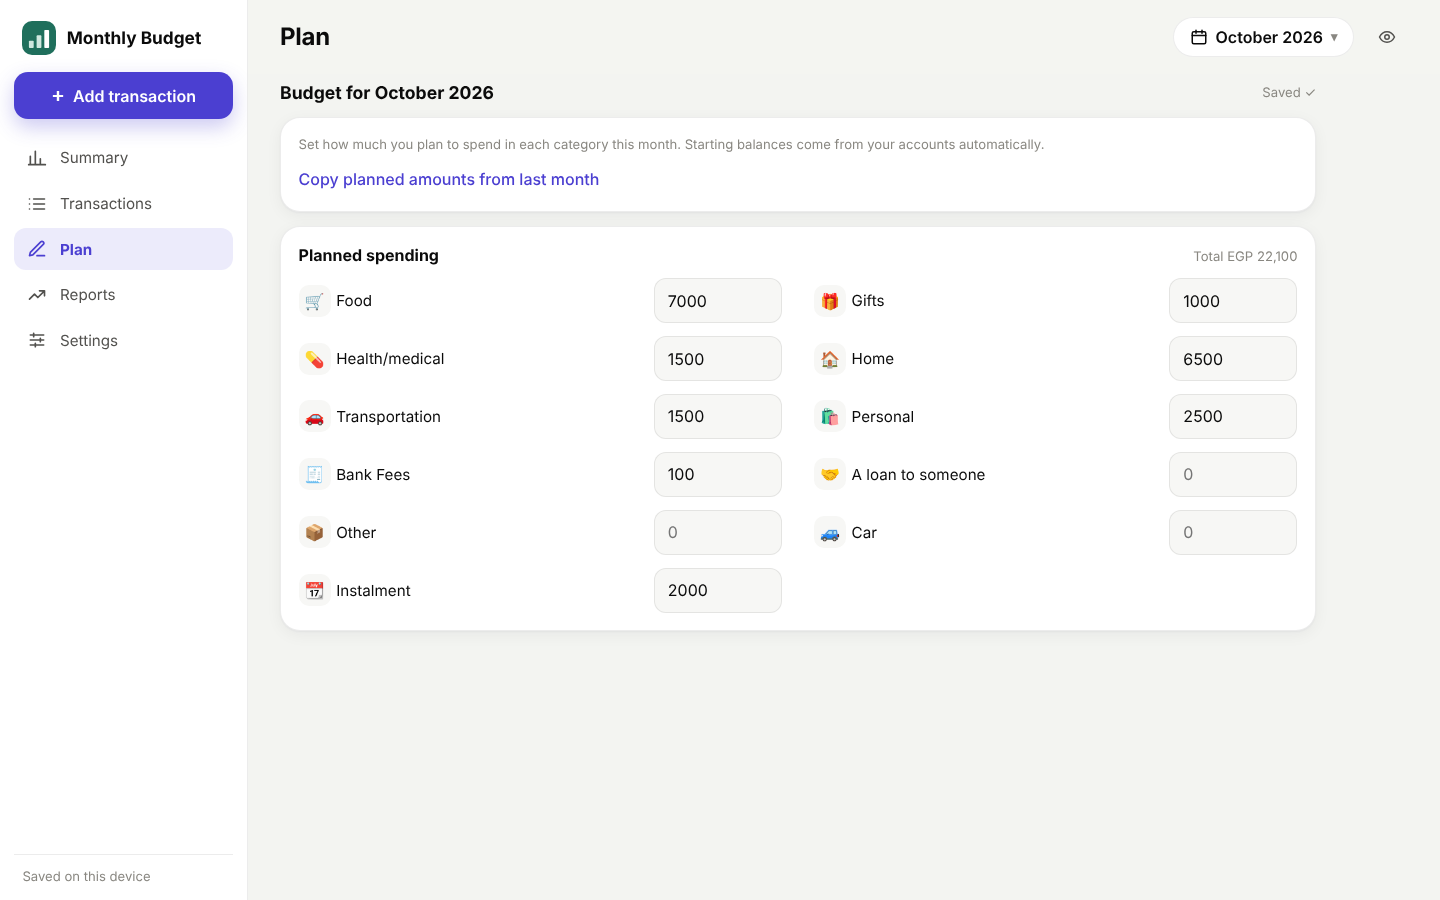
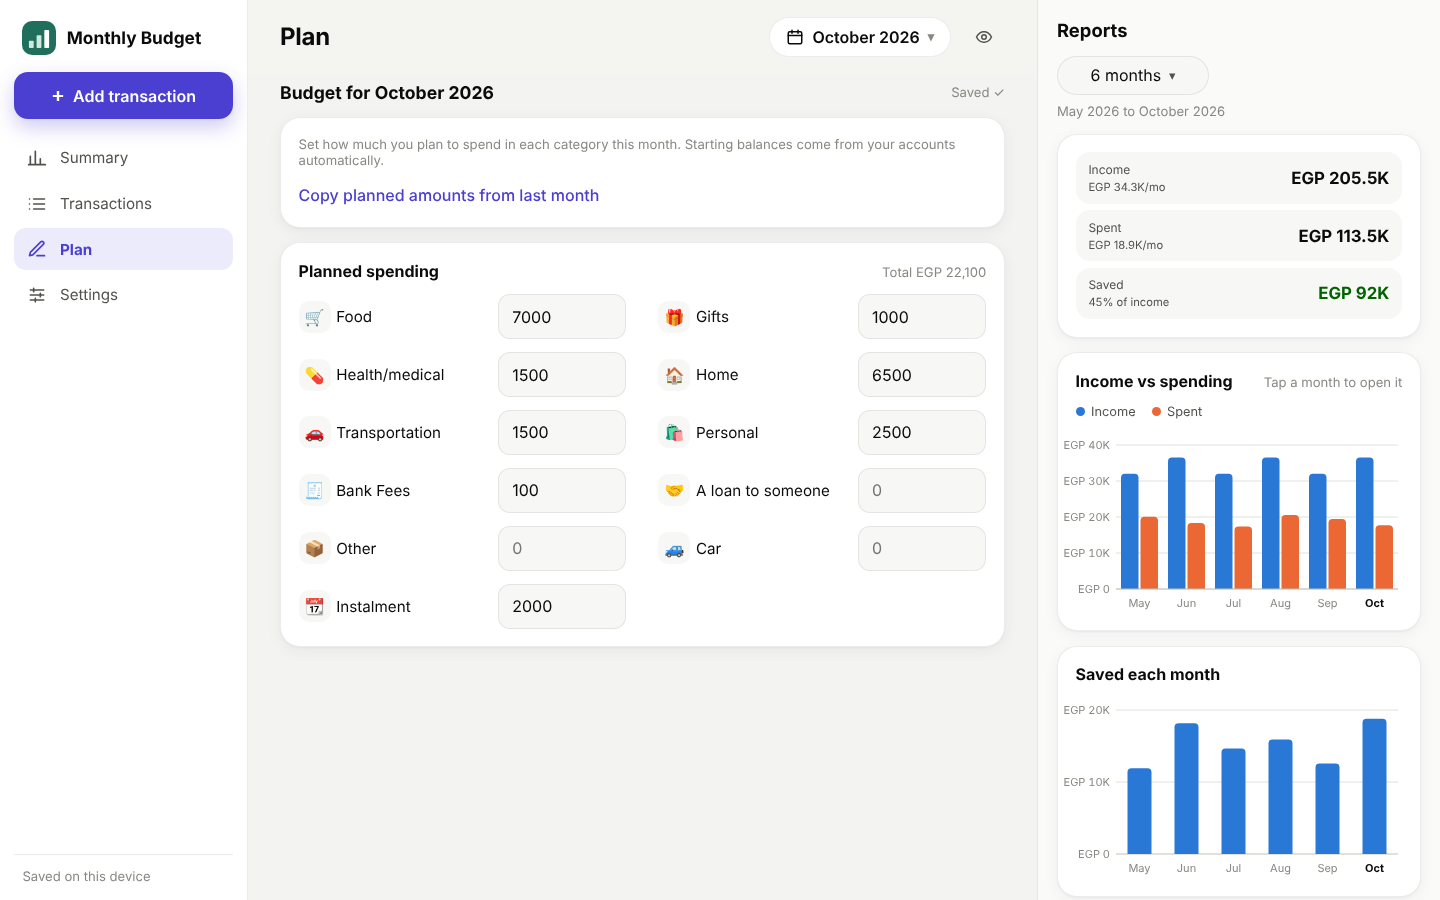
Website: Reports as a panel on the right of every desktop page
From 1280px wide, the desktop website shows the whole Reports page (range,
totals, charts and categories) in a fixed right-hand panel on every page,
and Reports leaves the sidebar. The middle pages fill the space between,
the Summary picks its column count from the room it has, and the headline
card stacks when that room is narrow. Between 1024 and 1279px Reports stays
a sidebar page. Phones and the Android app are unchanged.

Claude-Session: https://claude.ai/code/session_01GoY81hsJWSQFMgCd8KuFCG

diff --git a/src/components/MonthView.tsx b/src/components/MonthView.tsx
@@ -30,6 +30,8 @@ import { ask, showAlert } from './dialog'
 type Tab = 'summary' | 'transactions' | 'plan' | 'reports' | 'settings'
 
 const PRIVACY_KEY = 'budget-app:privacy'
+/** From this width the desktop website shows Reports as a panel on the right. */
+const PANEL_QUERY = '(min-width: 1280px)'
 
 // Stroke icons drawn on a 24x24 grid.
 const TABS: { id: Tab; label: string; icon: string }[] = [
@@ -71,6 +73,7 @@ export function MonthView({ backend, user, onSignOut }: Props) {
   useEffect(() => shareWithWatch({ hidden }), [hidden])
   const { scroller, content } = usePull<HTMLDivElement, HTMLDivElement>()
   const desktop = useDesktop()
+  const wideDesk = useDesktop(PANEL_QUERY)
   // Set when a Summary row is tapped: the Transactions tab then shows only its entries.
   const [focus, setFocus] = useState<ListFocus | null>(null)
   const openFocus = (f: ListFocus) => {
@@ -152,10 +155,14 @@ export function MonthView({ backend, user, onSignOut }: Props) {
     </button>
   )
 
+  // On a wide desktop screen Reports sits in its own panel on the right, so it isn't a page.
+  const withPanel = desktop && wideDesk
+  const view: Tab = withPanel && tab === 'reports' ? 'summary' : tab
+
   const page =
     loading || !summary ? (
       <p className="center muted">Loading…</p>
-    ) : tab === 'summary' ? (
+    ) : view === 'summary' ? (
       <div className="stack">
         <PendingSms sms={sms} onAdd={setFromSms} onOpen={() => setTab('transactions')} />
         <SummaryView
@@ -178,7 +185,7 @@ export function MonthView({ backend, user, onSignOut }: Props) {
           }}
         />
       </div>
-    ) : tab === 'transactions' ? (
+    ) : view === 'transactions' ? (
       <div className="stack">
         {!focus && <PendingSms sms={sms} onAdd={setFromSms} />}
         <TransactionList
@@ -195,9 +202,9 @@ export function MonthView({ backend, user, onSignOut }: Props) {
           }}
         />
       </div>
-    ) : tab === 'plan' ? (
+    ) : view === 'plan' ? (
       <PlanEditor backend={backend} month={month} plan={plan} settings={settings} />
-    ) : tab === 'reports' ? (
+    ) : view === 'reports' ? (
       <ReportsView backend={backend} settings={settings} month={month} hidden={hidden} onSelectMonth={(m) => {
         setMonth(m)
         setTab('summary')
@@ -239,9 +246,9 @@ export function MonthView({ backend, user, onSignOut }: Props) {
 
   // The website on a wide screen: a sidebar of pages on the left and the page using the full width.
   if (desktop) {
-    const current = TABS.find((t) => t.id === tab)!
+    const current = TABS.find((t) => t.id === view)!
     return (
-      <div className="desk">
+      <div className={`desk ${withPanel ? 'with-panel' : ''}`}>
         <aside className="sidebar">
           <div className="brand">
             <img src="./favicon.svg" alt="" width={34} height={34} />
@@ -251,8 +258,8 @@ export function MonthView({ backend, user, onSignOut }: Props) {
             <span aria-hidden>+</span> Add transaction
           </button>
           <nav className="side-nav" aria-label="Pages">
-            {TABS.map((t) => (
-              <button key={t.id} className={t.id === tab ? 'active' : ''} aria-current={t.id === tab ? 'page' : undefined} onClick={() => openTab(t.id)}>
+            {TABS.filter((t) => !(withPanel && t.id === 'reports')).map((t) => (
+              <button key={t.id} className={t.id === view ? 'active' : ''} aria-current={t.id === view ? 'page' : undefined} onClick={() => openTab(t.id)}>
                 <svg viewBox="0 0 24 24" aria-hidden>
                   <path d={t.icon} />
                 </svg>
@@ -293,9 +300,15 @@ export function MonthView({ backend, user, onSignOut }: Props) {
               </button>
               {privacyButton}
             </header>
-            <main className={`desk-content page-${tab}`}>{page}</main>
+            <main className={`desk-content page-${view}`}>{page}</main>
           </div>
         </div>
+        {withPanel && settings && (
+          <aside className="report-panel" aria-label="Reports">
+            <h2 className="report-panel-title">Reports</h2>
+            <ReportsView backend={backend} settings={settings} month={month} hidden={hidden} onSelectMonth={setMonth} />
+          </aside>
+        )}
         {overlays}
       </div>
     )

diff --git a/src/index.css b/src/index.css
@@ -537,7 +537,7 @@ button.side-add span { font-size: 1.3rem; line-height: 1; }
 button.desk-month { display: inline-flex; align-items: center; gap: 0.5rem; border-radius: 999px; padding: 0.55rem 1rem; font-weight: 600; background: var(--surface); }
 .desk-month svg, .desk-top .privacy svg { width: 18px; height: 18px; fill: none; stroke: currentColor; stroke-width: 2; stroke-linecap: round; stroke-linejoin: round; }
 .desk-month .caret { color: var(--muted); font-size: 0.8rem; }
-.desk-content { padding: 0.5rem 2rem 3rem; max-width: 1560px; }
+.desk-content { padding: 0.5rem 2rem 3rem; }
 .desk-content .card.hint { justify-content: flex-start; }
 
 /* Summary: the headline across the top, then the cards in balanced columns */
@@ -550,8 +550,6 @@ button.desk-month { display: inline-flex; align-items: center; gap: 0.5rem; bord
 .desk-columns { display: grid; gap: 0.9rem; align-items: start; }
 
 /* Other pages: a comfortable reading width, or two columns where it helps */
-.page-transactions, .page-settings { max-width: 980px; }
-.page-plan { max-width: 1100px; }
 .page-plan section.card:has(label.inline) { grid-template-columns: repeat(2, minmax(0, 1fr)); column-gap: 2rem; }
 .page-plan section.card:has(label.inline) > :not(label) { grid-column: 1 / -1; }
 .page-reports > .stack { grid-template-columns: repeat(2, minmax(0, 1fr)); align-items: start; }
@@ -561,3 +559,24 @@ button.desk-month { display: inline-flex; align-items: center; gap: 0.5rem; bord
 .page-reports button.range-picker { justify-self: start; }
 .page-reports .center-text { text-align: left; margin-top: -0.5rem; }
 .desk-top .privacy { position: static; }
+/* Reports as a fixed panel on the right of every page (desktop website from 1280px) */
+.desk.with-panel { grid-template-columns: 248px minmax(0, 1fr) clamp(360px, 28vw, 460px); }
+.report-panel {
+  overflow-y: auto; padding: 1.2rem 1.2rem 2rem; display: grid; align-content: start; gap: 0.9rem;
+  background: color-mix(in srgb, var(--surface) 55%, var(--bg)); border-left: 1px solid var(--border);
+}
+.report-panel-title { font-size: 1.15rem; }
+.report-panel button.range-picker { justify-self: start; }
+.report-panel .center-text { text-align: left; }
+.report-panel .stats { gap: 0.4rem; }
+.report-panel .stat { padding: 0.55rem 0.6rem; }
+/* Totals as three rows in the narrow panel, so the amounts never get cut off */
+.report-panel .report-stats { grid-template-columns: 1fr; }
+.report-panel .report-stats .stat { grid-template-columns: 1fr auto; align-items: baseline; column-gap: 0.75rem; padding: 0.6rem 0.8rem; }
+.report-panel .report-stats .stat strong { grid-column: 2; grid-row: 1 / span 2; align-self: center; font-size: 1.05rem; }
+/* The headline stacks when the middle column is narrow */
+.desk-hero { container-type: inline-size; }
+.desk-hero .hero-value { white-space: nowrap; overflow-wrap: normal; }
+@container (max-width: 900px) {
+  .desk-hero .hero { grid-template-columns: minmax(0, 1fr); gap: 1.1rem; }
+}

diff --git a/src/components/SummaryView.tsx b/src/components/SummaryView.tsx
@@ -390,13 +390,16 @@ const SECTION_WEIGHT: Partial<Record<SectionKey, number>> = { pace: 7, saved: 6,
  * in the user's order, each one going to the shortest column so far.
  */
 function DeskColumns({ keys, sections, weight }: { keys: SectionKey[]; sections: Record<SectionKey, ReactNode>; weight: (k: SectionKey) => number }) {
-  const [cols, setCols] = useState(() => (typeof matchMedia === 'function' && matchMedia('(min-width: 1500px)').matches ? 3 : 2))
+  // Columns follow the space this page actually has, which the Reports panel narrows.
+  const [width, setWidth] = useState(0)
+  const [box, setBox] = useState<HTMLDivElement | null>(null)
   useEffect(() => {
-    const mq = matchMedia('(min-width: 1500px)')
-    const on = () => setCols(mq.matches ? 3 : 2)
-    mq.addEventListener('change', on)
-    return () => mq.removeEventListener('change', on)
-  }, [])
+    if (!box) return
+    const ro = new ResizeObserver(([e]) => setWidth(e.contentRect.width))
+    ro.observe(box)
+    return () => ro.disconnect()
+  }, [box])
+  const cols = width >= 1150 ? 3 : width >= 640 ? 2 : 1
   const top = keys.filter((k) => k === 'hero')
   const columns: SectionKey[][] = Array.from({ length: cols }, () => [])
   const heights = new Array(cols).fill(0)
@@ -413,7 +416,7 @@ function DeskColumns({ keys, sections, weight }: { keys: SectionKey[]; sections:
           {sections[k]}
         </div>
       ))}
-      <div className="desk-columns" style={{ gridTemplateColumns: `repeat(${cols}, minmax(0, 1fr))` }}>
+      <div className="desk-columns" ref={setBox} style={{ gridTemplateColumns: `repeat(${cols}, minmax(0, 1fr))` }}>
         {columns.map((list, i) => (
           <div className="stack" key={i}>
             {list.map((k) => (

diff --git a/src/components/useDesktop.ts b/src/components/useDesktop.ts
@@ -7,18 +7,19 @@ const QUERY = '(min-width: 1024px)'
 /**
  * True on the website when the window is wide enough for the desktop dashboard
  * (sidebar and multi-column pages). Always false inside the Android app, and on
- * phones and narrow windows, which keep the phone layout.
+ * phones and narrow windows, which keep the phone layout. Pass a wider query to
+ * check for a bigger desktop window.
  */
-export function useDesktop() {
+export function useDesktop(query = QUERY) {
   const native = Capacitor.isNativePlatform()
-  const [wide, setWide] = useState(() => !native && typeof matchMedia === 'function' && matchMedia(QUERY).matches)
+  const [wide, setWide] = useState(() => !native && typeof matchMedia === 'function' && matchMedia(query).matches)
   useEffect(() => {
     if (native || typeof matchMedia !== 'function') return
-    const mq = matchMedia(QUERY)
+    const mq = matchMedia(query)
     const on = () => setWide(mq.matches)
     on()
     mq.addEventListener('change', on)
     return () => mq.removeEventListener('change', on)
-  }, [native])
+  }, [native, query])
   return wide
 }
